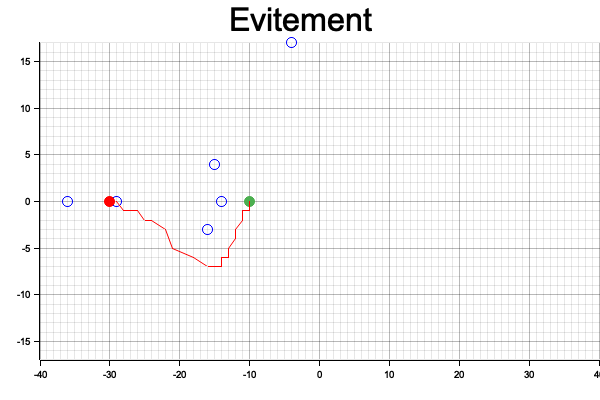
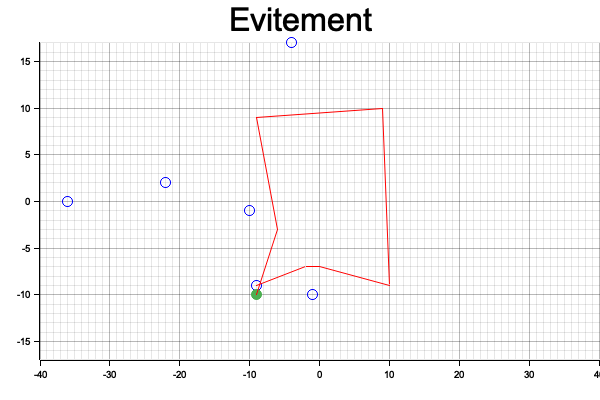
smooth path

diff --git a/src/world/robot.rs b/src/world/robot.rs
@@ -7,8 +7,8 @@ use crate::{
 use std::sync::{Arc, Mutex};
 
 pub type RobotId = u8;
-const IS_CLOSE_EPSILON: f32 = 0.05;
-const RRT_MAX_TRIES: usize = 1_000;
+const IS_CLOSE_EPSILON: f32 = 0.02;
+const RRT_MAX_TRIES: usize = 10_000;
 
 const GOTO_SPEED: f32 = 1.5;
 const GOTO_ANGULAR_SPEED: f32 = 1.5;
@@ -162,40 +162,45 @@ impl Robot {
         destination: &T,
         angle: Option<f32>,
     ) -> Result<Vec<Point2>, String> {
+        let is_free = |p: &[f32]| {
+            let p = Point2::from_vec(p);
+            !world
+                .lock()
+                .unwrap()
+                .team
+                .values()
+                .filter(|r| r.get_id() != self.get_id()) // can't collide with myself
+                .any(|r| p.distance_to(r) < 0.3) // a robot is 10cm radius => 0.3 leaves 10cm between robots
+        };
+
         let mut followed_path = vec![self.get_pos()];
         while self.get_pos().distance_to(&destination.get_pos()) > IS_CLOSE_EPSILON {
             let start = self.get_pos();
             let goal = destination.get_pos();
-            let rect = Rect::new(Point2::new(start.x, 1.75), Point2::new(goal.x, -1.75));
+            // let rect = Rect::new(Point2::new(start.x, 1.75), Point2::new(goal.x, -1.75));
+            let rect = world.lock().unwrap().field;
 
             let start_time = tokio::time::Instant::now();
-            let result = rrt::dual_rrt_connect(
+            let mut path = rrt::dual_rrt_connect(
                 &[start.x, start.y],
                 &[goal.x, goal.y],
-                |p: &[f32]| {
-                    let p = Point2::from_vec(p);
-                    !world
-                        .lock()
-                        .unwrap()
-                        .team
-                        .values()
-                        .filter(|r| r.get_id() != self.get_id()) // can't collide with myself
-                        .any(|r| p.distance_to(r) < 0.4) // a robot is 10cm radius => 0.3 leaves 10cm between robots
-                },
+                is_free,
                 || rect.sample_inside().to_vec(),
                 0.1,
                 RRT_MAX_TRIES,
-            )?
-            .into_iter()
-            .nth(1)
-            .ok_or(format!("Couldn't find a path to {:?}", goal))?;
+            )?;
+            rrt::smooth_path(&mut path, is_free, 0.05, 100);
+            let next_point = path
+                .into_iter()
+                .nth(1)
+                .ok_or(format!("Couldn't find a path to {:?}", goal))?;
             println!(
                 "[DEBUG - robot {} - goto_rrt] took {}ms to compute path",
                 self.get_id(),
                 start_time.elapsed().as_millis()
             );
 
-            self.goto(&Point2::new(result[0], result[1]), angle).await;
+            self.goto(&Point2::from_vec(&next_point), angle).await;
             followed_path.push(self.get_pos());
         }
         Ok(followed_path)

diff --git a/src/main.rs b/src/main.rs
@@ -70,10 +70,10 @@ async fn control_loop<T, E: Debug, C: RobotController<T, E> + Send + 'static>(
             }
         }
 
-        println!(
-            "[DEBUG] {} packets were pending, they were applied!",
-            pending_packets_count
-        );
+        // println!(
+        //     "[TRACE] {} packets were pending, they were applied!",
+        //     pending_packets_count
+        // );
 
         // println!("[DEBUG] world state");
         // println!("\tball pos: {:?}", world.lock().unwrap().ball.get_pos());
@@ -164,7 +164,7 @@ async fn main() {
     let controller = SimRobotController::new(color).await;
     let (control_loop_thread_stop_notifier, control_loop_thread_handle) =
         launch_control_thread(world.clone(), "224.5.23.2", None, false, color, controller);
-    sleep(Duration::from_secs(1)).await; // AWAIT ROBOTS DETECTION
+    sleep(CONTROL_PERIOD + Duration::from_millis(10)).await; // AWAIT ROBOTS DETECTION
 
     // robot aliases
     // let (r0, r1, r2) = (
@@ -176,12 +176,14 @@ async fn main() {
     let r0 = world.lock().unwrap().team.get(&0).unwrap().clone();
 
     // do a square
-    // r0.set_target_vel(Vec2::new(0.5, 0.));
+    // r0.set_target_vel(Vec2::new(1., 0.));
     // sleep(Duration::from_secs(1)).await;
-    // do_square_rrt(&world, r0).await;
+    let path = do_square_rrt(&world, &r0)
+        .await
+        .expect("couldn't find a path");
 
-    let goal = Point2::new(-3., 0.);
-    let path = r0.goto_rrt(&world, &goal, None).await.unwrap();
+    // let goal = Point2::new(-3., 0.);
+    // let path = r0.goto_rrt(&world, &goal, None).await.unwrap();
 
     {
         // PLOT
@@ -213,13 +215,13 @@ async fn main() {
         )
         .unwrap();
 
-        ctx.draw_series(
-            vec![goal]
-                .iter()
-                .map(|p| Circle::new((to_int(p.x), to_int(p.y)), 5, RED.filled()))
-                .take(1),
-        )
-        .unwrap();
+        // ctx.draw_series(
+        //     vec![goal]
+        //         .iter()
+        //         .map(|p| Circle::new((to_int(p.x), to_int(p.y)), 5, RED.filled()))
+        //         .take(1),
+        // )
+        // .unwrap();
 
         ctx.draw_series(LineSeries::new(
             path.iter().map(|p| (to_int(p.x), to_int(p.y))),

diff --git a/src/actions/mod.rs b/src/actions/mod.rs
@@ -14,13 +14,17 @@ pub async fn do_square(robot: &Robot) {
     println!("reached dest!");
 }
 
-pub async fn do_square_rrt(world: &Arc<Mutex<World>>, robot: &Robot) -> Result<(), String> {
-    robot.goto_rrt(world, &Point2::new(0., 1.), None).await?;
-    robot.goto_rrt(world, &Point2::new(1., 1.), None).await?;
-    robot.goto_rrt(world, &Point2::new(1., 0.), None).await?;
-    robot.goto_rrt(world, &Point2::new(0., 0.), None).await?;
+pub async fn do_square_rrt(
+    world: &Arc<Mutex<World>>,
+    robot: &Robot,
+) -> Result<Vec<Point2>, String> {
+    let mut path = vec![robot.get_pos()];
+    path.extend(robot.goto_rrt(world, &Point2::new(-1., 1.), None).await?);
+    path.extend(robot.goto_rrt(world, &Point2::new(1., 1.), None).await?);
+    path.extend(robot.goto_rrt(world, &Point2::new(1., -1.), None).await?);
+    path.extend(robot.goto_rrt(world, &Point2::new(-1., -1.), None).await?);
     println!("reached dest!");
-    Ok(())
+    Ok(path)
 }
 
 pub async fn three_attackers_attack(left_winger: &Robot, fronter: &Robot, right_winger: &Robot) {
